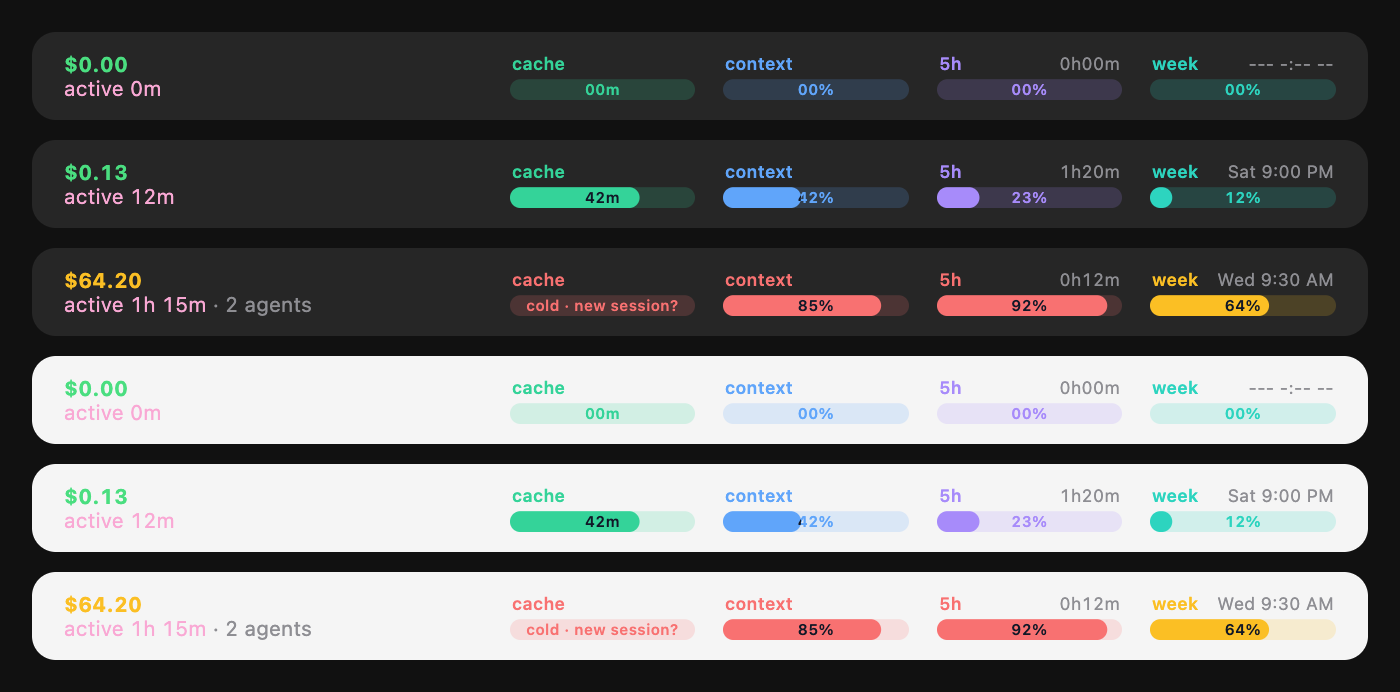
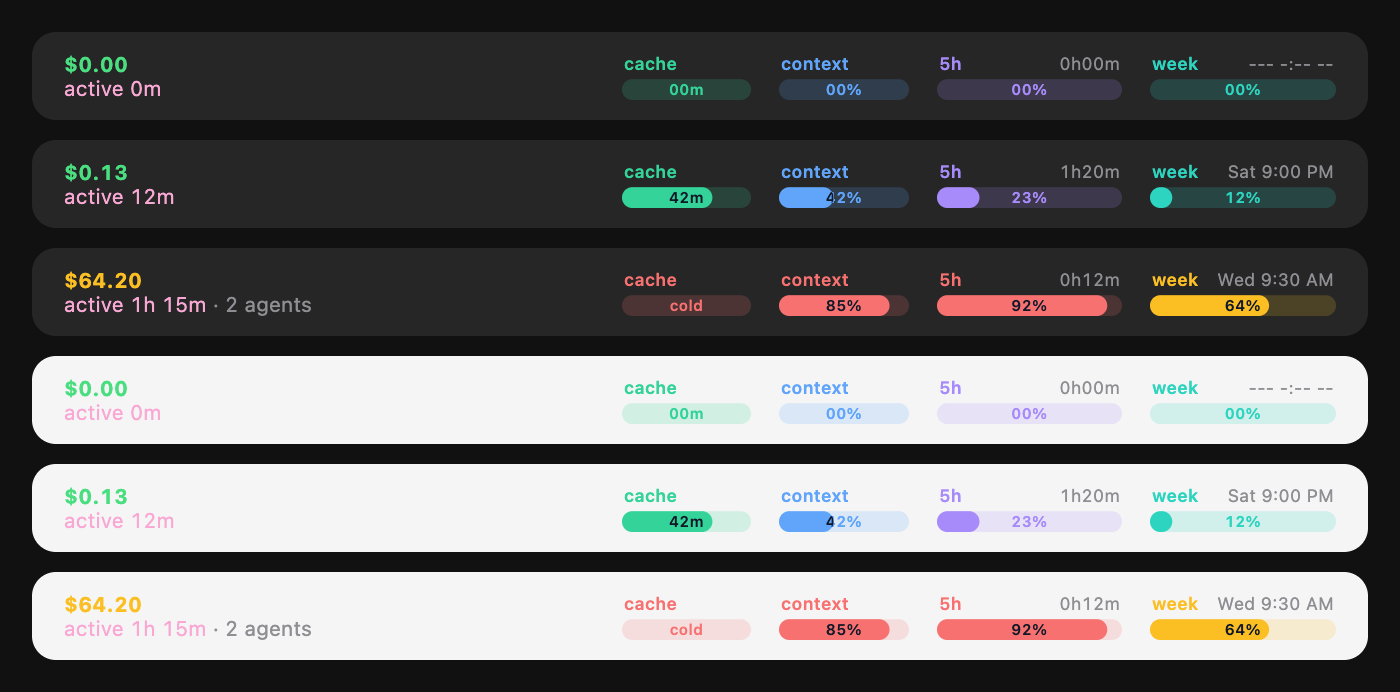
Narrow the cache and context bars to 70%
The expired cache now reads "cold" to fit; the toast still suggests a
new session.

diff --git a/hooks/meters.ts b/hooks/meters.ts
@@ -15,10 +15,11 @@ export type Meter = { name: string; percent: number; text?: string; color?: stri
 const SCALE = 0.8
 const px = (base: number) => Math.round(base * SCALE * 10) / 10
 
-// Every desktop meter has the same size, placeholder or not, so the line never
-// moves: wide enough for "week Sat 12:00 PM" over the bar and for "cold · new
-// session?" inside it.
+// A desktop meter keeps its size, placeholder or not, so the line never moves:
+// wide enough for "week Sat 12:00 PM" over the bar; cache and context, with
+// no reset time, narrower.
 const WIDTH = px(116)
+const NARROW: Record<string, number> = { cache: px(81), context: px(81) }
 const LABEL_PX = px(11)
 const LABEL_HEIGHT = px(14)
 const GAP = px(3)
@@ -73,6 +74,7 @@ function svgText(text: string, attributes: string) {
 // centered inside, in the bar's color over the empty track and near-black
 // over the fill (clipped to it), so it reads on both.
 export function svgMeter(meter: Meter) {
+  const { width: WIDTH } = meterSize(meter)
   const p = Math.min(100, Math.max(0, meter.percent))
   const fill = p === 0 ? 0 : Math.max(BAR_HEIGHT, (WIDTH * p) / 100)
   const r = BAR_HEIGHT / 2
@@ -134,7 +136,9 @@ export function textMeter(percent: number) {
   return '▰'.repeat(filled) + '▱'.repeat(CELLS - filled)
 }
 
-export const meterSize = { width: WIDTH, height: HEIGHT }
+export function meterSize(meter: Meter) {
+  return { width: NARROW[meter.name] ?? WIDTH, height: HEIGHT }
+}
 
 // Until the first response (a new session, before its first turn) the line
 // keeps its shape: the same meters at the same size, with empty bars, zeroed

diff --git a/tests/placeholder.test.tsx b/tests/placeholder.test.tsx
@@ -1,6 +1,6 @@
 import { expect, test } from 'claude-code/testing'
 
-import { meterSize } from '../hooks/meters'
+import { meterSize, PLACEHOLDER_METERS } from '../hooks/meters'
 
 // Before any reading the desktop band keeps its shape: the same meters at the
 // same size as live ones, with empty bars, zeroed numbers and a $0.00 cost.
@@ -14,6 +14,6 @@ test('a fresh session shows placeholders on the desktop', async $ => {
 
   const bars = await ui.findAll({ type: 'Svg' })
   expect(bars.map(b => b.props.alt)).toEqual(['$0.00 · active 0m', 'cache 00m', 'context 00%', '5h 00% 0h00m', 'week 00% --- -:-- --'])
-  expect(bars.slice(1).every(b => b.props.width === meterSize.width && b.props.height === meterSize.height)).toBe(true)
-  expect(bars[0]?.props.height).toBe(meterSize.height)
+  expect(bars.slice(1).map(b => [b.props.width, b.props.height])).toEqual(PLACEHOLDER_METERS.map(m => [meterSize(m).width, meterSize(m).height]))
+  expect(bars[0]?.props.height).toBe(meterSize(PLACEHOLDER_METERS[0]!).height)
 })

diff --git a/scripts/preview.ts b/scripts/preview.ts
@@ -86,12 +86,12 @@ function img(source: string, alt: string, size: { width: number; height: number 
 // at the right.
 function band(line: Line, background: string) {
   const summary = { cost: costLabel(line.cost), costColor: costColor(line.cost), active: activeLabel(line.activeMs), agents: agentsLabel(line.agents) }
-  const meters = line.meters.map(m => img(svgMeter(m), meterAlt(m), meterSize)).join('')
+  const meters = line.meters.map(m => img(svgMeter(m), meterAlt(m), meterSize(m))).join('')
 
   return `<div class="band" style="background:${background}">${img(svgSummary(summary), summaryText(summary), summarySize(summary))}<div class="meters">${meters}</div></div>`
 }
 
-const BAND_HEIGHT = meterSize.height + 20
+const BAND_HEIGHT = meterSize(PLACEHOLDER_METERS[0]!).height + 20
 const GAP = 10
 const PADDING = 16
 const WIDTH = 700

diff --git a/hooks/features/usage.ts b/hooks/features/usage.ts
@@ -86,8 +86,8 @@ async function tickClock($: EngineInterface) {
   }
 }
 
-// The prompt cache as a draining meter: "42m" (or "07m") left, or a red "cold · new
-// session?" once it lapsed.
+// The prompt cache as a draining meter: "42m" (or "07m") left, or a red "cold"
+// once it lapsed.
 // Null before the first response, or with prompt caching off.
 export function cacheMeter(leftMs: number | null, ttlMs: number | null): Meter | null {
   if (leftMs === null || ttlMs === null) {
@@ -95,7 +95,7 @@ export function cacheMeter(leftMs: number | null, ttlMs: number | null): Meter |
   }
 
   if (leftMs === 0) {
-    return { name: 'cache', percent: 0, text: 'cold · new session?', color: '#f87171' }
+    return { name: 'cache', percent: 0, text: 'cold', color: '#f87171' }
   }
 
   const fraction = leftMs / ttlMs

diff --git a/hooks/register.tsx b/hooks/register.tsx
@@ -85,7 +85,7 @@ export const register: Register = on => {
         <Svg source={svgSummary(summary)} alt={summaryText(summary)} width={size.width} height={size.height} />
         <Box alignItems="center" gap={2} flexShrink={0}>
           {line.meters.map(m => (
-            <Svg key={m.name} source={svgMeter(m)} alt={meterAlt(m)} width={meterSize.width} height={meterSize.height} />
+            <Svg key={m.name} source={svgMeter(m)} alt={meterAlt(m)} {...meterSize(m)} />
           ))}
         </Box>
       </Box>

diff --git a/README.md b/README.md
@@ -20,7 +20,7 @@ The desktop app doesn't draw a mod's footer labels, so there the line goes above
 | --- | --- | --- |
 | `active 12m` | Time Claude has spent working this session: the main conversation's turn durations added up (not time since the session opened), in whole minutes. Counted from when the plugin loads, which is the session start in a new session. | `hooks/features/activity.ts` |
 | `2 agents` | Subagents running right now; hidden when none are. | `hooks/features/activity.ts` |
-| `cache` | How long the prompt cache stays warm: a bar that drains (green, then amber under 40% left, red under 15%) and the minutes left, or a red `cold · new session?` once it expired. A toast also tells you when it expires: your next message then re-reads the whole conversation at full price, so for a new task a new session is cheaper. | `hooks/features/usage.ts` |
+| `cache` | How long the prompt cache stays warm: a bar that drains (green, then amber under 40% left, red under 15%) and the minutes left, or a red `cold` once it expired. A toast also tells you when it expires: your next message then re-reads the whole conversation at full price, so for a new task a new session is cheaper. | `hooks/features/usage.ts` |
 | `context` | How full the context window is. Near 100%, the conversation gets compacted. | `hooks/features/usage.ts` |
 | `5h` / `week` | How much of your subscription's 5-hour and weekly usage limits you've used, and when each resets: the time left for the 5-hour window (`1h20m`, ticks every minute), the day and local time for the weekly one (`Sat 9:00 PM`). Hidden off a subscription (API key). | `hooks/features/usage.ts` |
 | `$0.13` | The session's total cost, in dollars and cents: green under $50, amber under $100, red from $100. | `hooks/features/usage.ts` |
